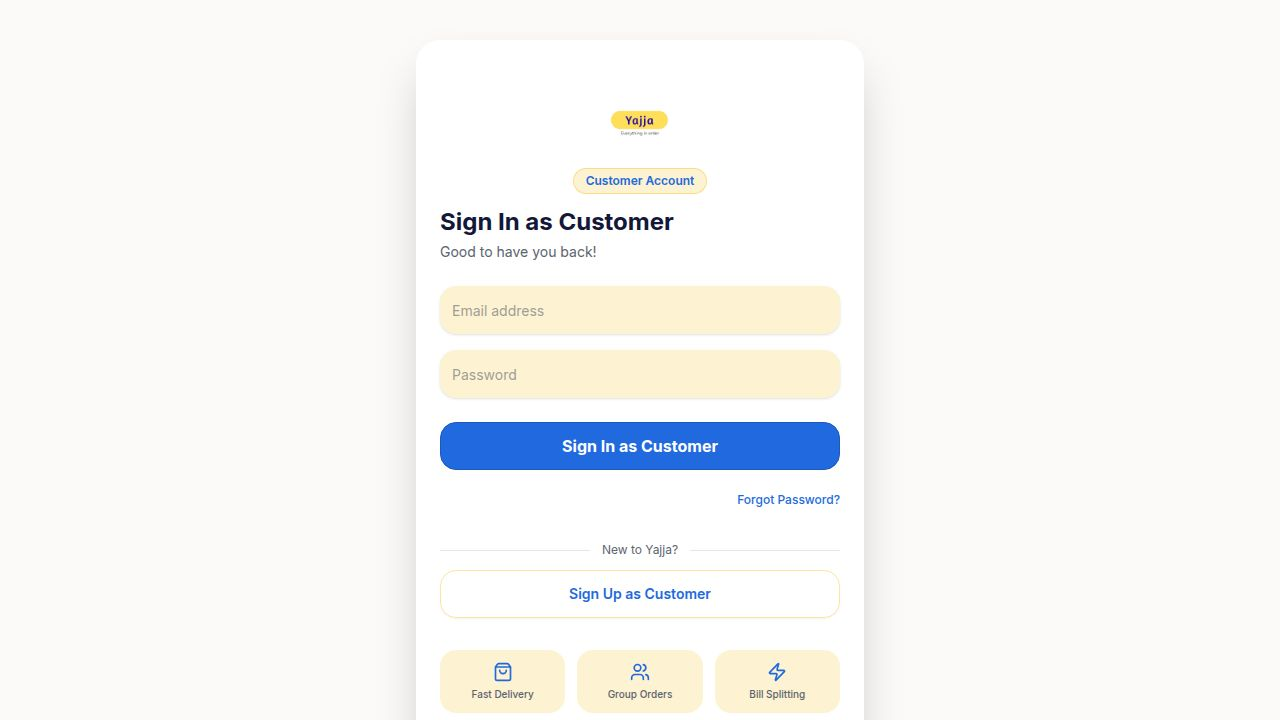
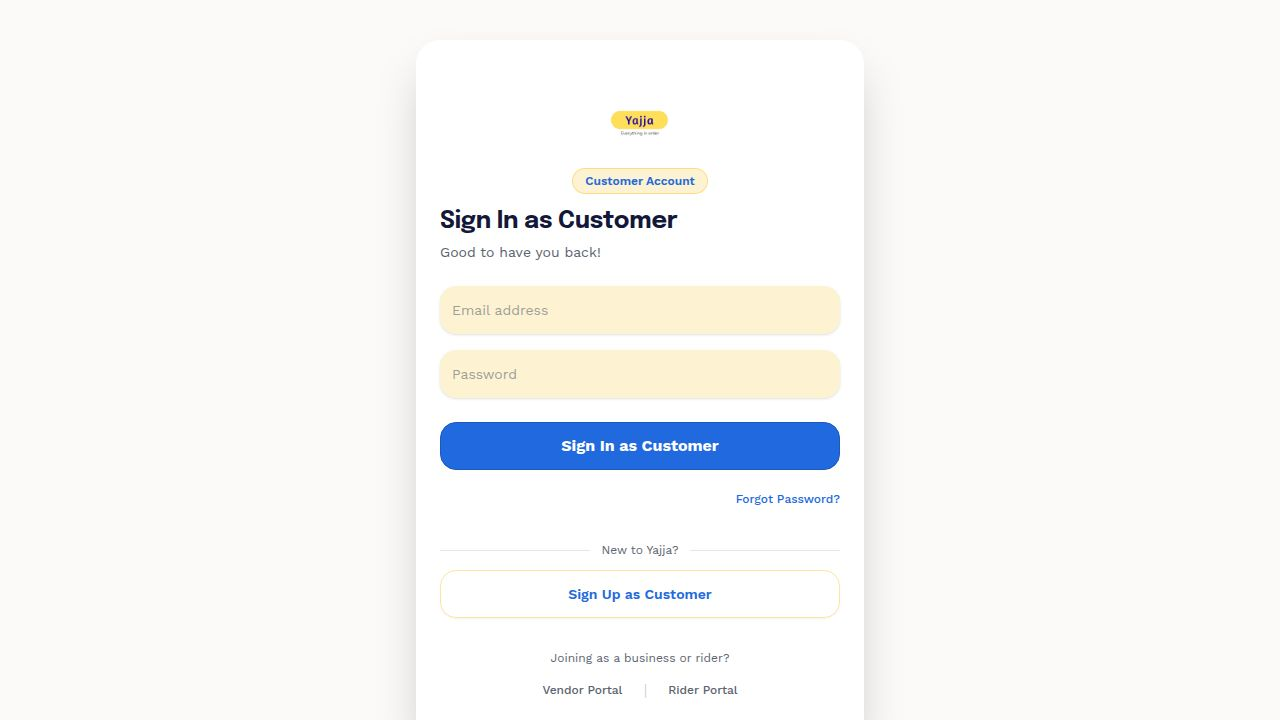
Improve homepage display for recently ordered items
Add a client-side sort to `home.tsx` for `recentOrders` to ensure accurate display by `createdAt` in descending order, addressing potential backend ordering inconsistencies.

Replit-Commit-Author: Agent
Replit-Commit-Session-Id: b67e512c-9441-472d-b9a6-8c36ec067c48
Replit-Commit-Checkpoint-Type: full_checkpoint
Replit-Commit-Event-Id: e5b88cae-9edf-48da-a484-eded34aaeeff
Replit-Commit-Screenshot-Url: https://storage.googleapis.com/screenshot-production-us-central1/b713d5cc-4243-4233-ad44-b8e3b4f0ad69/b67e512c-9441-472d-b9a6-8c36ec067c48/mf1hHNT
Replit-Helium-Checkpoint-Created: true

diff --git a/artifacts/yajja/src/pages/home.tsx b/artifacts/yajja/src/pages/home.tsx
@@ -87,7 +87,9 @@ export default function Home() {
   );
   const { data: orders } = useListOrders({} as any);
 
-  const recentOrders = ((orders as any[]) || []).slice(0, 3);
+  const recentOrders = [...((orders as any[]) || [])]
+    .sort((a, b) => new Date(b.createdAt ?? 0).getTime() - new Date(a.createdAt ?? 0).getTime())
+    .slice(0, 3);
 
   const handleSearch = (e: React.FormEvent) => {
     e.preventDefault();